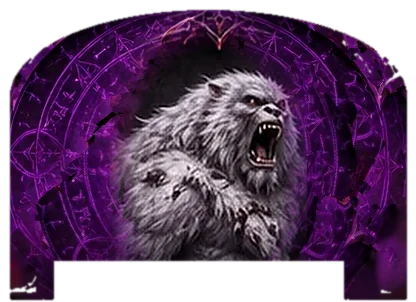
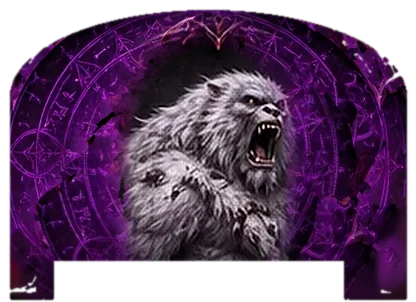
Cursebound: fix Chupacabra center-portrait clipping and crossfade bleed-through
- Chupacabra portrait re-cropped and re-centered on its head; all center
  portraits now fade fully to the rune circle at their edges
- Outgoing portrait stays solid until the new one fades in, so the painted
  Occultist never flashes through when switching fighters

Claude-Session: https://claude.ai/code/session_01T4Ncn1TLi39LZCyjUJH1gr

diff --git a/cursebound/css/cursebound.css b/cursebound/css/cursebound.css
@@ -62,8 +62,9 @@ h1{color:#ece3d8;text-shadow:0 4px 5px #000,0 0 22px #750a28,0 0 39px #551044}
 /* v4.3 center portrait and name banner */
 .center-panel,#centerName{display:none}
 #menu.gothic-ready #selectStage{container-type:inline-size}
-#menu.gothic-ready .center-panel{display:block;position:absolute;z-index:1;pointer-events:none;opacity:0;transition:opacity .28s ease}
-#menu.gothic-ready .center-panel.on{opacity:1}
-#menu.gothic-ready #centerName{display:flex;position:absolute;z-index:2;align-items:center;justify-content:center;pointer-events:none;overflow:visible}
+/* the outgoing portrait stays solid until the new one has faded in, so the painted Occultist never shows through */
+#menu.gothic-ready .center-panel{display:block;position:absolute;z-index:1;pointer-events:none;opacity:0;transition:opacity .2s ease .26s}
+#menu.gothic-ready .center-panel.on{opacity:1;z-index:2;transition:opacity .26s ease 0s}
+#menu.gothic-ready #centerName{display:flex;position:absolute;z-index:3;align-items:center;justify-content:center;pointer-events:none;overflow:visible}
 #menu.gothic-ready #centerName span{display:inline-block;white-space:nowrap;transform-origin:center;font-family:'Cormorant Garamond','Trajan Pro',Georgia,serif;font-weight:600;font-variant:small-caps;font-size:2.9cqw;letter-spacing:.06em;line-height:1;color:#f1e3cf;background:linear-gradient(#fff8ec,#e8d5bb 55%,#bfa07c);-webkit-background-clip:text;background-clip:text;-webkit-text-fill-color:transparent;filter:drop-shadow(0 .12cqw .1cqw #000) drop-shadow(0 0 .5cqw #6d1d93)}
 .load-error{position:fixed;inset:auto 0 40% 0;text-align:center;font:16px system-ui;color:#f0d9c4}
